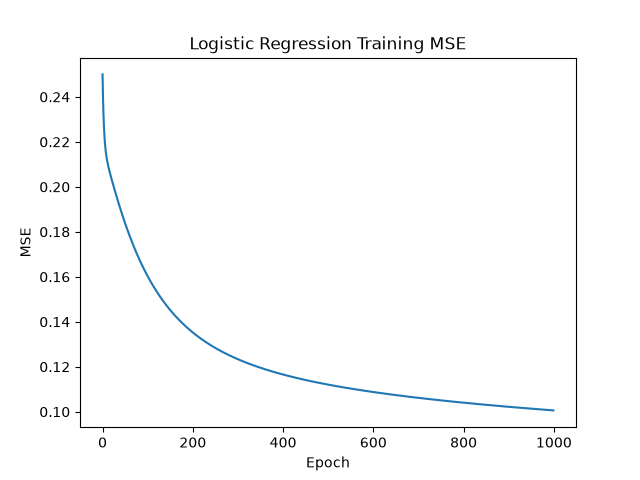
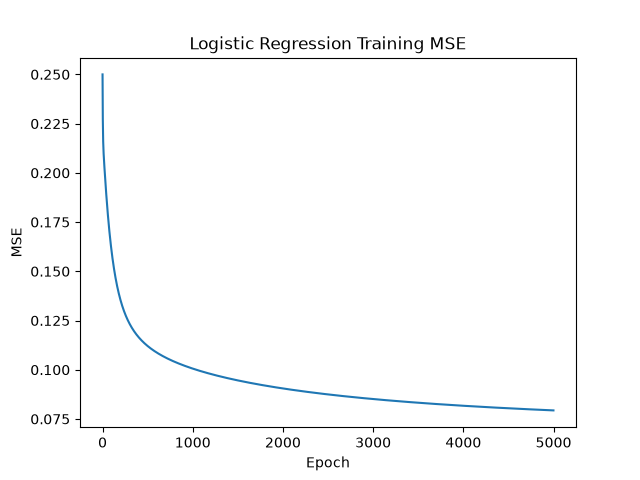
Added figures and final problem

diff --git a/main.py b/main.py
@@ -1,6 +1,7 @@
 from sklearn import datasets
 import numpy as np
 import matplotlib.pyplot as plt
+from sklearn import metrics
 
 def main():
     iris = datasets.load_iris()
@@ -8,9 +9,7 @@ def main():
     Y = np.zeros((len(iris.target), 3))
     Y[np.arange(iris.target.size), iris.target] = 1
 
-    # A) Write code to randomly divide the data into two sets: 
-    # U_trainK, Y_trainK and U_test, Y_test. 80%
-    # of the data should be in U_trainK and 20% should be in U_test
+    # A) Divide the data into two sets
     rng = np.random.default_rng(seed=42)
     indices = np.arange(len(U))
     rng.shuffle(indices)
@@ -26,8 +25,7 @@ def main():
     U_test = U[test_indices]
     Y_test = Y[test_indices]
 
-    # B) Perform classification using k nearest neighbors with k = 5, and Euclidean distance as the distance
-    # metric. Report training and test accuracy
+    # B) Perform classification using k nearest neighbors 
     
     Y_test_pred = K_classifier(U_test, U_train, Y_train, 5)
     Y_train_pred = K_classifier(U_train, U_train, Y_train, 5)
@@ -38,19 +36,117 @@ def main():
     Y_test_pred = linear_regression(U_test, U_train, Y_train)
     print_results(Y_test_pred, Y_train_pred, Y_test, Y_train, "Linear Regression")
 
-    # D) Perform classification using logistic regression trained with gradient descent. Show the training accuracy or MSE vs. training epoch and stop training when it appears to converge. Report training
-    # and test accuracy
-    Y_train_pred, mse_history = logistic_regression(U_train, U_train, Y_train, iterations=1000, learning_rate=0.01)
-    Y_test_pred, _ = logistic_regression(U_test, U_train, Y_train, iterations=1000, learning_rate=0.01)
-    print_results(Y_test_pred, Y_train_pred, Y_test, Y_train, "Logistic Regression")
+    # D) Logistic regression
+    Y_train_pred_logistic, mse_history = logistic_regression(
+        U_train, U_train, Y_train,
+        iterations=5000,
+        learning_rate=0.01,
+        lambda_val=0
+    )
+
+    Y_test_pred_logistic, _ = logistic_regression(
+        U_test, U_train, Y_train,
+        iterations=5000,
+        learning_rate=0.01,
+        lambda_val=0
+    )
+
+    print_results(
+        Y_test_pred_logistic,
+        Y_train_pred_logistic,
+        Y_test,
+        Y_train,
+        "Logistic Regression"
+    )
 
     plt.plot(range(len(mse_history)), mse_history)
     plt.xlabel("Epoch")
     plt.ylabel("MSE")
     plt.title("Logistic Regression Training MSE")
-
     plt.savefig("mse_history.png")
-    plt.close()     
+    plt.close()
+
+    # E) Ridge regularization
+    lambdas = [0.01, 0.1, 1, 10]
+
+    train_accuracies = []
+    test_accuracies = []
+
+    for lambda_val in lambdas:
+        Y_train_pred, _ = logistic_regression(
+            U_train, U_train, Y_train,
+            iterations=5000,
+            learning_rate=0.01,
+            lambda_val=lambda_val
+        )
+
+        Y_test_pred, _ = logistic_regression(
+            U_test, U_train, Y_train,
+            iterations=5000,
+            learning_rate=0.01,
+            lambda_val=lambda_val
+        )
+
+        train_accuracy = np.sum(Y_train_pred == np.argmax(Y_train, axis=1)) / len(Y_train)
+
+        test_accuracy = np.sum(Y_test_pred == np.argmax(Y_test, axis=1)) / len(Y_test)
+
+        train_accuracies.append(train_accuracy)
+        test_accuracies.append(test_accuracy)
+
+        print_results(
+            Y_test_pred,
+            Y_train_pred,
+            Y_test,
+            Y_train,
+            f"Logistic Regression with λ={lambda_val}"
+        )
+
+    plt.figure(figsize=(10, 6))
+
+    plt.plot(
+        lambdas,
+        train_accuracies,
+        marker='o',
+        label="Training Accuracy"
+    )
+
+    plt.plot(
+        lambdas,
+        test_accuracies,
+        marker='o',
+        label="Test Accuracy"
+    )
+
+    plt.xscale("log")
+    plt.xlabel("λ")
+    plt.ylabel("Accuracy")
+    plt.title("Impact of Ridge Regularization on Logistic Regression")
+    plt.legend()
+    plt.savefig("ridge_regularization_results.png")
+    plt.close()
+
+    # F) Confusion matrix for logistic regression test set
+    confusion_matrix = np.zeros((3, 3), dtype=int)
+
+    for i in range(len(Y_test_pred_logistic)):
+        actual_class = np.argmax(Y_test[i])
+        predicted_class = Y_test_pred_logistic[i]
+
+        confusion_matrix[actual_class, predicted_class] += 1
+
+    cm_display = metrics.ConfusionMatrixDisplay(
+        confusion_matrix=confusion_matrix,
+        display_labels=[0, 1, 2]
+    )
+
+    cm_display.plot()
+    plt.title("Logistic Regression Confusion Matrix")
+    plt.savefig("confusion_matrix.png")
+    plt.close()
+
+    print("Confusion Matrix:")
+    print(confusion_matrix)
 
 
 def print_results(Y_test_pred, Y_train_pred, Y_test, Y_train, model_type):
@@ -60,6 +156,7 @@ def print_results(Y_test_pred, Y_train_pred, Y_test, Y_train, model_type):
     print(f"Training accuracy ({model_type}):", round(train_accuracy, 3))
     print("Test accuracy:", round(test_accuracy, 3))
     print("\n---------------------------------------------------------")
+
 
 def K_classifier(U, U_trainK, Y_trainK, K):
     # Go through Ui in U_test
@@ -105,21 +202,24 @@ def linear_regression(U, U_trainL, Y_trainL):
     predicted_classes = np.argmax(Y_pred, axis=1)
     return predicted_classes
 
-def logistic_regression(U, U_train, Y_train, iterations, learning_rate):
+def logistic_regression(U, U_train, Y_train, iterations, learning_rate, lambda_val):
     mse_history = []
 
     ones = np.ones((U_train.shape[0], 1))
     augmented_Utrain = np.column_stack((ones, U_train))
     
     W = np.zeros((augmented_Utrain.shape[1], Y_train.shape[1]))
-    for i in range(iterations):
+    for _ in range(iterations):
         Z = augmented_Utrain @ W
         Y_pred = sigmoid(Z)
 
         mse = np.mean((Y_train - Y_pred) ** 2)
         mse_history.append(mse)
         gradient = (augmented_Utrain.T @ (Y_pred - Y_train)) / len(Y_train)
-        W = W - learning_rate * gradient
+        regularization = lambda_val * W.copy()
+        regularization[0, :] = 0
+        W = W - learning_rate * (gradient + regularization)
+
     ones = np.ones((U.shape[0], 1))
     augmented_U = np.column_stack((ones, U))
 
